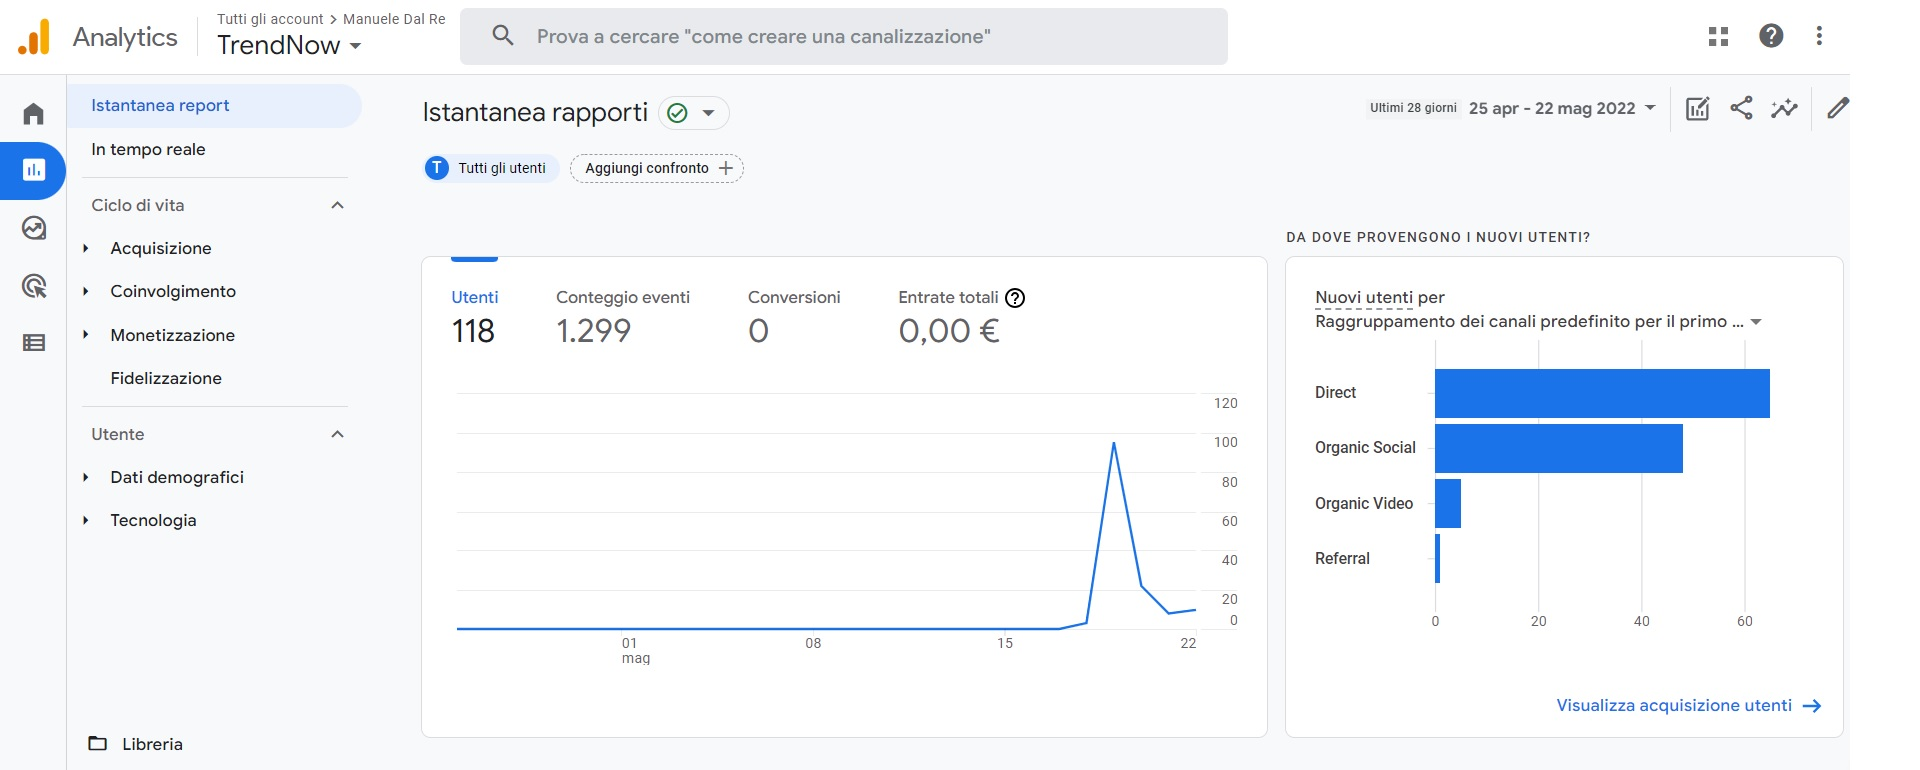
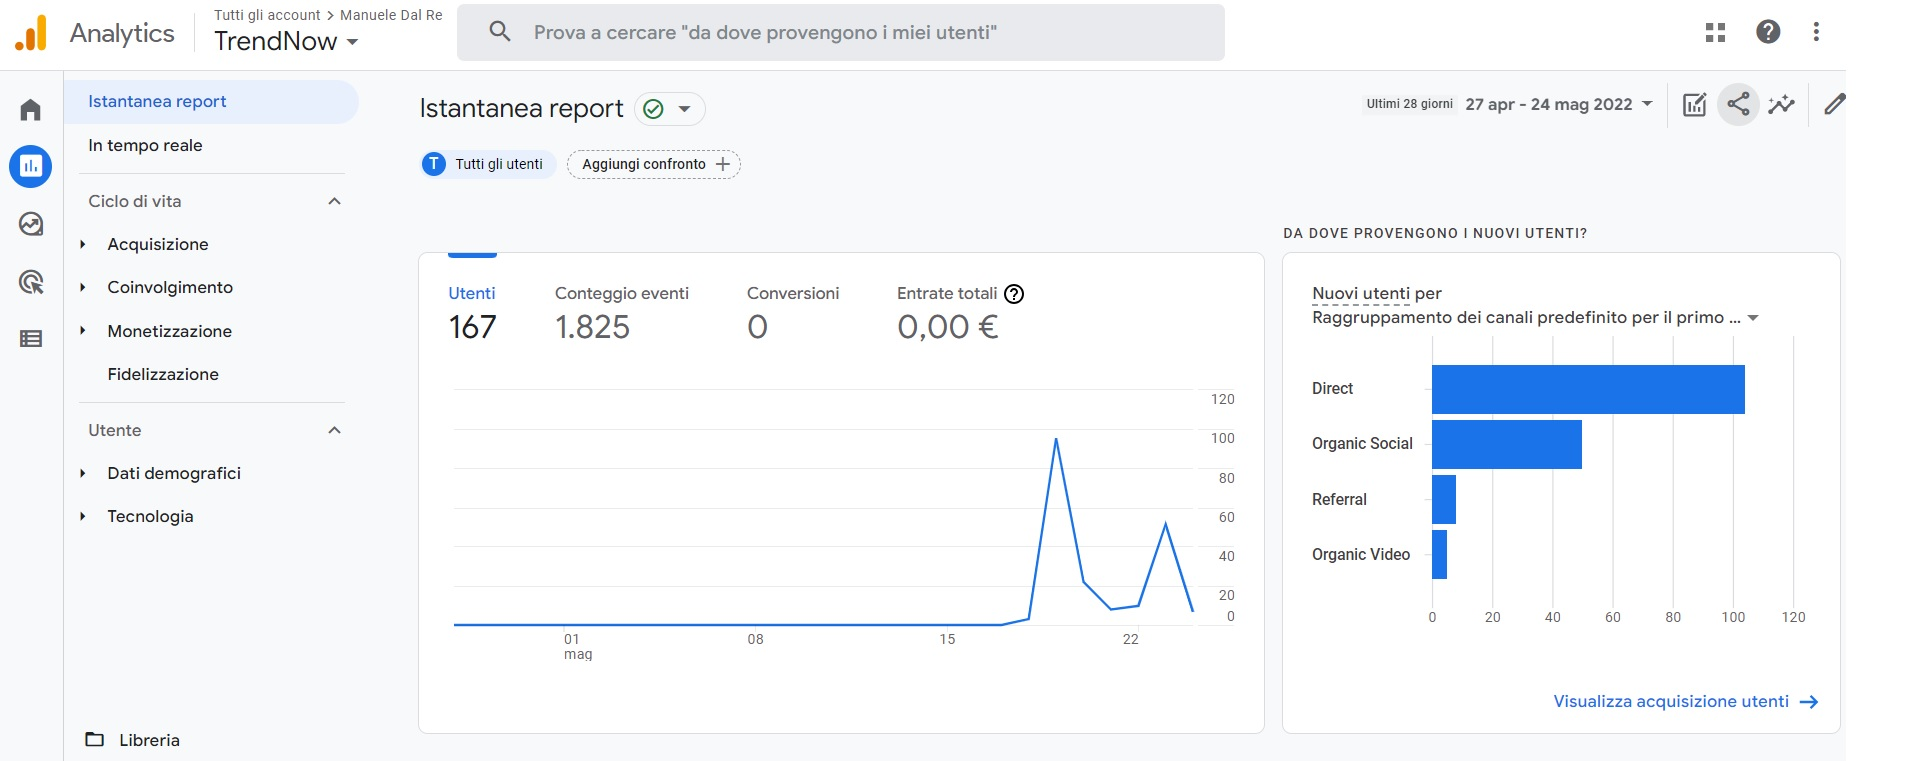
Versione V10.3
documentazione aggiornata

diff --git a/documentazione.html b/documentazione.html
@@ -250,7 +250,7 @@
                   <div class="col-12">
                   <h1 class="dy-home featurette-heading dynamic-text-shadow">5. Valutazione dei risultati</h1>
                   <p>
-                    Tramite lo strumento Google Analytics abbiamo constatato che l’obbiettivo di ottenere 50 visite al nostro sito web da parte di utenti unici è stato raggiunto. Il sito ad oggi conta già oltre 100 visite (si veda immagine sottostante).</p> 
+                    Tramite lo strumento Google Analytics abbiamo constatato che l’obbiettivo di ottenere 50 visite al nostro sito web da parte di utenti unici è stato raggiunto. Il sito ad oggi conta già oltre 150 visite (si veda immagine sottostante).</p> 
 
                   <div class="text-center col-12">
                   <img src="img/google.jpg" class="img-fluid" alt="google analytics">
@@ -260,7 +260,7 @@
                     <br>Inoltre, la pagina Instagram del sito ha ottenuto più di 20 like e oltre 300 visualizzazioni al primo post di presentazione del progetto, superando così la soglia obiettivo prefissata (si veda immagine sottostante).</p>
 
                   <div class="text-center col-12">
-                  <img width="400" height="400" src="img/instagram.jpeg" class="img-fluid" alt="post instragram">
+                  <img width="400" height="400" src="img/instagram.jpg" class="img-fluid" alt="post instragram">
                   </div>
 
                   <p>
